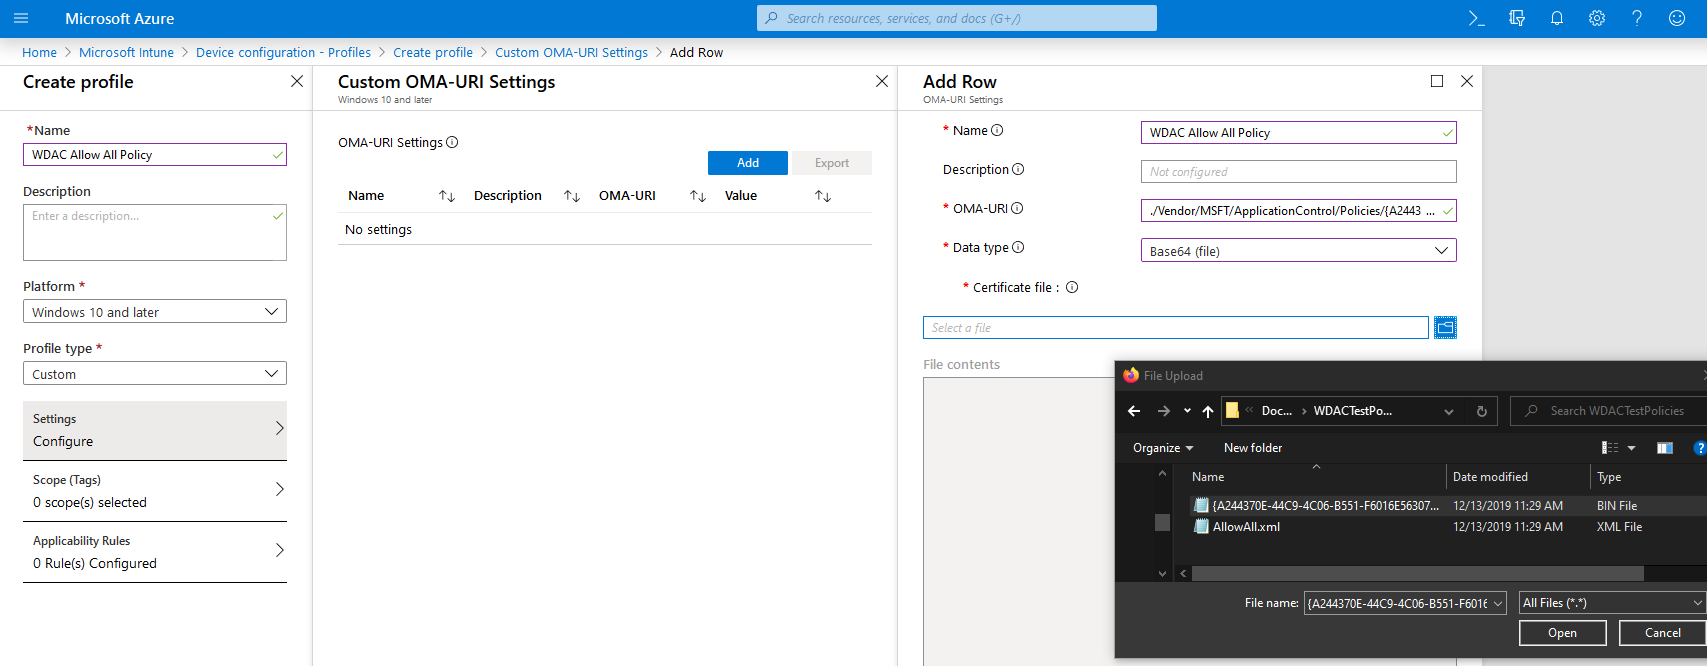
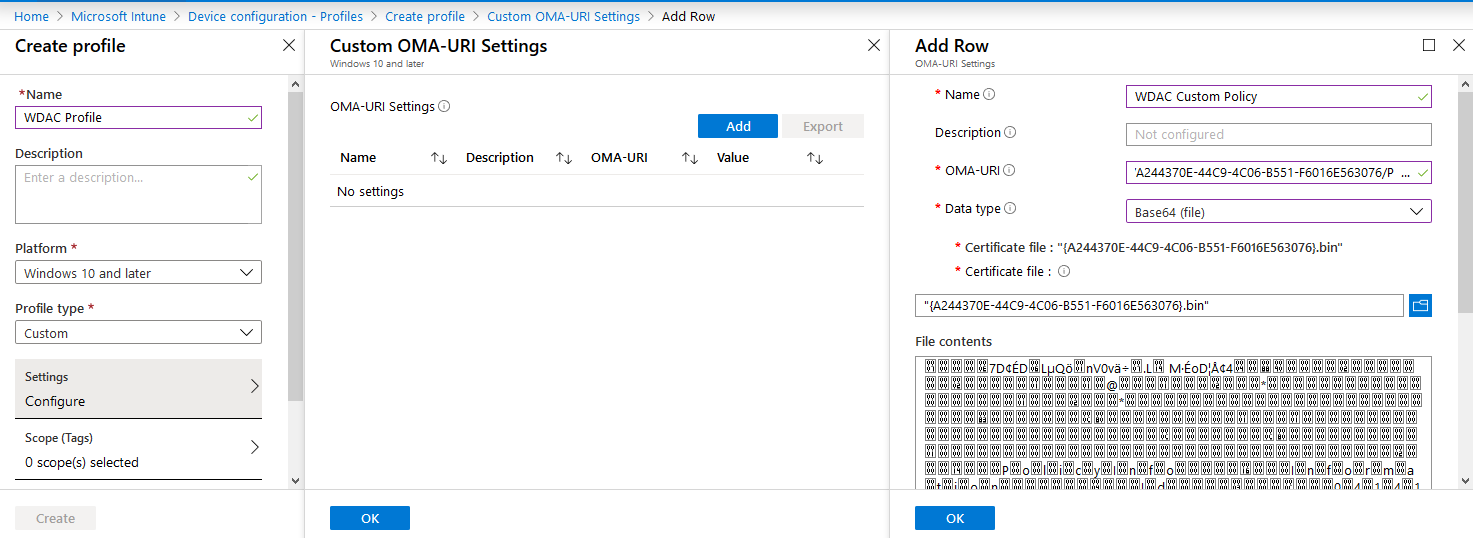
Merge changes from Pr/10 branch

diff --git a/windows/security/threat-protection/windows-defender-application-control/deploy-windows-defender-application-control-policies-using-intune.md b/windows/security/threat-protection/windows-defender-application-control/deploy-windows-defender-application-control-policies-using-intune.md
@@ -1,6 +1,6 @@
 ---
 title: Deploy Windows Defender Application Control (WDAC) policies by using Microsoft Intune (Windows 10)
-description: Windows Defender Application Control restricts which applications users are allowed to run and the code that runs in the system core.
+description: You can use Microsoft Intune to configure Windows Defender Application Control (WDAC). Learn how with this step-by-step guide.
 keywords: whitelisting, security, malware
 ms.assetid: 8d6e0474-c475-411b-b095-1c61adb2bdbb
 ms.prod: w10
@@ -18,22 +18,20 @@ ms.date: 05/17/2018
 ---
 
 > [!NOTE]
-> For WDAC enhancements see [Delivering major enhancements in Windows Defender Application Control with the Windows 10 May 2019 Update](https://www.microsoft.com/security/blog/2019/07/01/). 
+> For WDAC enhancements see [Delivering major enhancements in Windows Defender Application Control with the Windows 10 May 2019 Update](https://www.microsoft.com/security/blog/2019/07/01/).
 
 # Deploy Windows Defender Application Control policies by using Microsoft Intune
 
 **Applies to:**
 
--   Windows 10
--   Windows Server 2016
+- Windows 10
+- Windows Server 2016
 
-Microsoft Intune can be used to configure Windows Defender Application Control (WDAC) on Windows 10 client computers. Intune includes both basic native support for WDAC as well as the option to use Custom OMA-URI for customized policies.
+You can use Microsoft Endpoint Manager (MEM) Intune to configure Windows Defender Application Control (WDAC). Intune includes native support for WDAC, which allows you to configure Windows 10 client computers to only run Windows components and Microsoft Store apps, or to also allow reputable apps as defined by the Intelligent Security Graph (ISG). Using the built-in policies can be a helpful starting point, but many customers may find the available circle-of-trust options to be too limited.
 
-Intune includes a limited number of default policies, which are available in both audit and enforce mode. You can use these default policies to only allow Windows components and Microsoft Store apps to run, or choose to also allow reputable apps defined by the [Intelligent Security Graph (ISG)](use-windows-defender-application-control-with-intelligent-security-graph.md). These policies are currently deployed using the [AppLocker CSP](windows\client-management\mdm\applocker-csp.md), which requires a reboot even for rebootless policies.
+In order to deploy a custom policy through Intune and define your own circle of trust, you can configure a profile using Custom OMA-URI. Beginning in 1903, Custom OMA-URI policy deployment leverages the [ApplicationControl CSP](https://docs.microsoft.com/windows/client-management/mdm/applicationcontrol-csp), which has support for multiple policies and rebootless policies. Custom OMA-URI can also be used on pre-1903 systems to deploy custom policies via the [AppLocker CSP](https://docs.microsoft.com/windows/client-management/mdm/applocker-csp).
 
-Intune also allows you the option of using Custom OMA-URI to deploy customized policies. Note that beginning in 1903, Custom OMA-URI deployment leverages the new [ApplicationControl CSP](windows\client-management\mdm\applicationcontrol-csp.md), which offers support for [multiple policies](deploy-multiple-windows-defender-application-control-policies.md) and rebootless policies (policies that have the “Enabled:Update Policy No Reboot” option set don't require a reboot to take effect).
-
-## Using Default Intune WDAC Policies
+## Using Intune's Built-In Policies
 
 1. Open the Microsoft Intune portal and click **Device configuration** > **Profiles** > **Create profile**.
 
@@ -46,53 +44,29 @@ Intune also allows you the option of using Custom OMA-URI to deploy customized p
    - **Application control code integrity policies**: Select **Audit only** to log events but not block any apps from running or select **Enforce** to allow only Windows components and Store apps to run.  
    - **Trust apps with good reputation**: Select **Enable** to allow reputable apps as defined by the Intelligent Security Graph to run in addition to Windows components and Store apps.
 
-   ![Configure WDAC](images/wdac-intune-wdac-settings.png)
+   ![Configure built-in WDAC](images/wdac-intune-wdac-settings.png)
 
-## Using Custom OMA-URI with ApplicationControl CSP
+## Using a Custom OMA-URI Profile
 
-For systems running Windows 10 version 1903 and above, the steps to use Custom OMA-URI functionality to leverage the [ApplicationControl CSP](windows\client-management\mdm\applicationcontrol-csp.md) and apply a Code Integrity policy are:
+For 1903+ systems, the steps to use Intune's Custom OMA-URI functionality to leverage the [ApplicationControl CSP](https://docs.microsoft.com/windows/client-management/mdm/applicationcontrol-csp) and deploy a custom WDAC policy are:
 
-<!--TODO: add screenshots-->
-1. Locate the policy’s GUID, which can be found in the policy xml as `<PolicyID>`
+1. Know a generated policy’s GUID, which can be found in the policy xml as `<PolicyID>`
+2. Convert the policy XML to binary format using the ConvertFrom-CIPolicy cmdlet in order to be deployed. The binary policy may be signed or unsigned.
+3. Open the Microsoft Intune portal and click **Device configuration** > **Profiles** > **Create profile**.
+4. Type a name for the new profile, select **Windows 10 and later** as the **Platform** and **Custom** as the **Profile type**.
+5. Add a row, then give your policy a name and use the following settings:
+    - **OMA-URI**: ./Vendor/MSFT/ApplicationControl/Policies/_Policy GUID_/Policy
+    - **Data type**: Base64
+    - **Certificate file**: upload your binary format policy file
 
-       ![PolicyID](images/policy-id.png)
+    ![Configure custom WDAC](images/wdac-intune-custom-oma-uri.png)
 
-2. Convert the policies to binary format using the ConvertFrom-CIPolicy cmdlet. The binary policy may be signed or unsigned.
+For pre-1903 systems, the steps to use Intune's Custom OMA-URI functionality to leverage the [AppLocker CSP](https://docs.microsoft.com/windows/client-management/mdm/applocker-csp) and deploy a custom WDAC policy are:
 
-    ```powershell
-    ConvertFrom-CIPolicy -XmlFilePath ".\Policy.xml" - BinaryFilePath "Policy.bin"
-    ```
-
-3. In the Intune portal, navigate to Device configuration, then Profiles, then create a profile.
-
-    ![Create profile](images/wdac-intune-custom-create-profile-name.png)
-
-4. Name your policy, set Platform to Windows 10 and later, and change profile type to Custom (OMA-URI). Add a row and use the following:
-    - OMA-URI: ./Vendor/MSFT/ApplicationControl/Policies/_{Policy GUID}_/Policy
-    - Data type: Base64
-    - Certificate file: upload your binary format policy file
-
-    ![Create Custom OMA-URI](images/wdac-intune-custom-oma-uri.png)
-
-5. Set Scope and Applicability Rules, then save your policy.
-
-6. Finally, assign your policy to the appropriate groups.
-
-    ![Assign policy](wdac-intune-custom-assignment.png)
-
-## Using Custom OMA-URI with AppLocker CSP
-
-If you need to deploy your policies to clients running older versions of Windows 10, use Custom OMA-URI to leverage the [AppLocker CSP](https://docs.microsoft.com/windows/client-management/mdm/applocker-csp):
-
-<!--TODO: confirm if these steps are correct-->
-1. Convert the policy to binary format using the ConvertFrom-CIPolicy cmdlet. The binary policy may be signed or unsigned.
-2. In the Intune portal, navigate to Device configuration, then Profiles, then create a profile.
-3. Name your policy, set Platform to Windows 10 and later, and change profile type to Custom (OMA-URI). Add a row and use the following:
-
-    - OMA-URI: ./Vendor/MSFT/AppLocker/EnterpriseDataProtection/_Grouping_/EXE/Policy
-    - Data type: Base64
-    - Certificate file: upload your binary format policy file
-
-4. Set Scope and Applicability Rules, then save your policy.
-5. Finally, assign your policy to the appropriate groups.
-
+1. Convert the policy XML to binary format using the ConvertFrom-CIPolicy cmdlet in order to be deployed. The binary policy may be signed or unsigned.
+2. Open the Microsoft Intune portal and click **Device configuration** > **Profiles** > **Create profile**.
+3. Type a name for the new profile, select **Windows 10 and later** as the **Platform** and **Custom** as the **Profile type**.
+4. Add a row, then give your policy a name and use the following settings:
+    - **OMA-URI**: ./Vendor/MSFT/AppLocker/ApplicationLaunchRestrictions/_Grouping_/CodeIntegrity/Policy)
+    - **Data type**: Base64
+    - **Certificate file**: upload your binary format policy file
